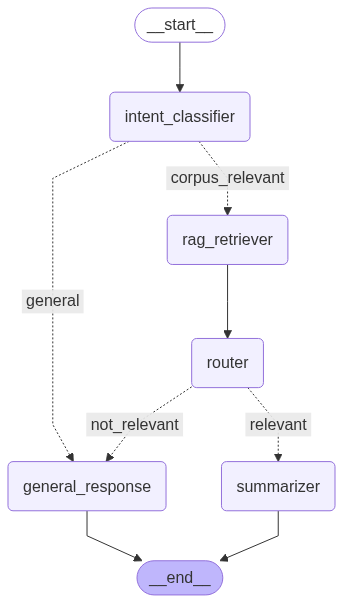
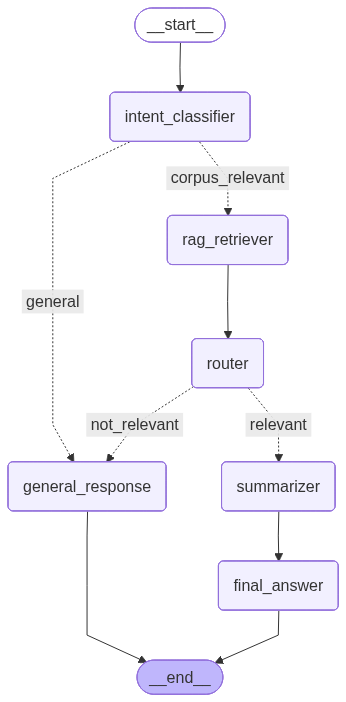
add evaluation files

diff --git a/src/agent-rag-streamlit/agent_utils/workflow.py b/src/agent-rag-streamlit/agent_utils/workflow.py
@@ -13,6 +13,7 @@ from .retriever_agent import RetrieverAgent
 from .summarizer_agent import SummarizerAgent
 from .general_agent import GeneralAgent
 from .intent_agent import IntentClassificationAgent
+from dotenv import load_dotenv
 from .final_answer_agent import FinalAnswerAgent # New import
 
 logger = logging.getLogger(__name__)
@@ -38,7 +39,8 @@ class RAGWorkflow:
         self.final_answer_agent = final_answer_agent # Assign the new agent
         
         # Check for the final_eval environment variable
-        self.final_eval = os.getenv("final_eval", "verbose")
+        load_dotenv()  # Load environment variables from .env file
+        self.final_eval = os.environ.get("final_eval", "succinct")  # Use os.environ.get instead of os.getenv
         
         logger.info("Building RAG workflow with intent classification")
         self.workflow = self._build_workflow()
